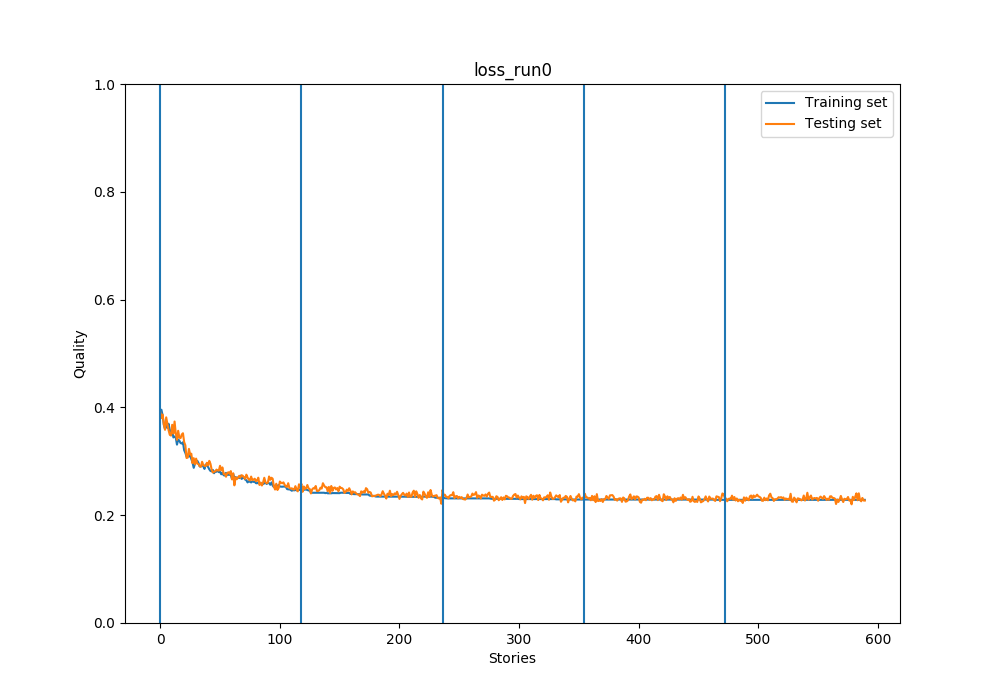
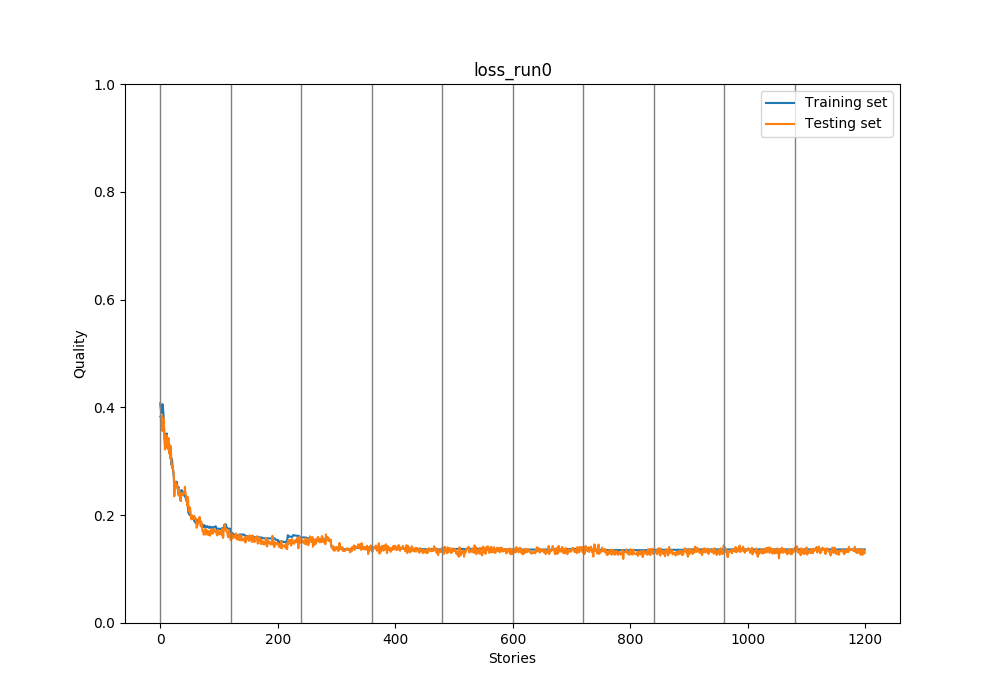
graphs

diff --git a/learner.py b/learner.py
@@ -24,7 +24,7 @@ class QLearner:
 		self.decay = 0.9
 		self.start_epsilon = 0
 		self.end_epsilon = 1.0
-		self.num_epochs = 5
+		self.num_epochs = 10
 		self.init_dataset()
 		self.init_sentence_to_state()
 		self.state_action_table = {}
@@ -149,7 +149,6 @@ class QLearner:
 				train_losses.append(train_error)
 				
 				if test_quality > best_qual:
-					print("new highscore")
 					best_qual = test_quality
 					best_state_action_table = self.state_action_table.copy()
 
@@ -210,7 +209,7 @@ class QLearner:
 		ax.plot(x_data, train_data, label="Training set")
 		ax.plot(x_data, test_data, label="Testing set")
 		for xc in range(0, len(x_data), len(self.training_set)):
-			plt.axvline(x=xc)
+			plt.axvline(x=xc, linewidth=1, color='grey')
 		plt.xlabel("Stories")
 		plt.ylabel("Quality")
 		ax.legend(loc='upper right')
